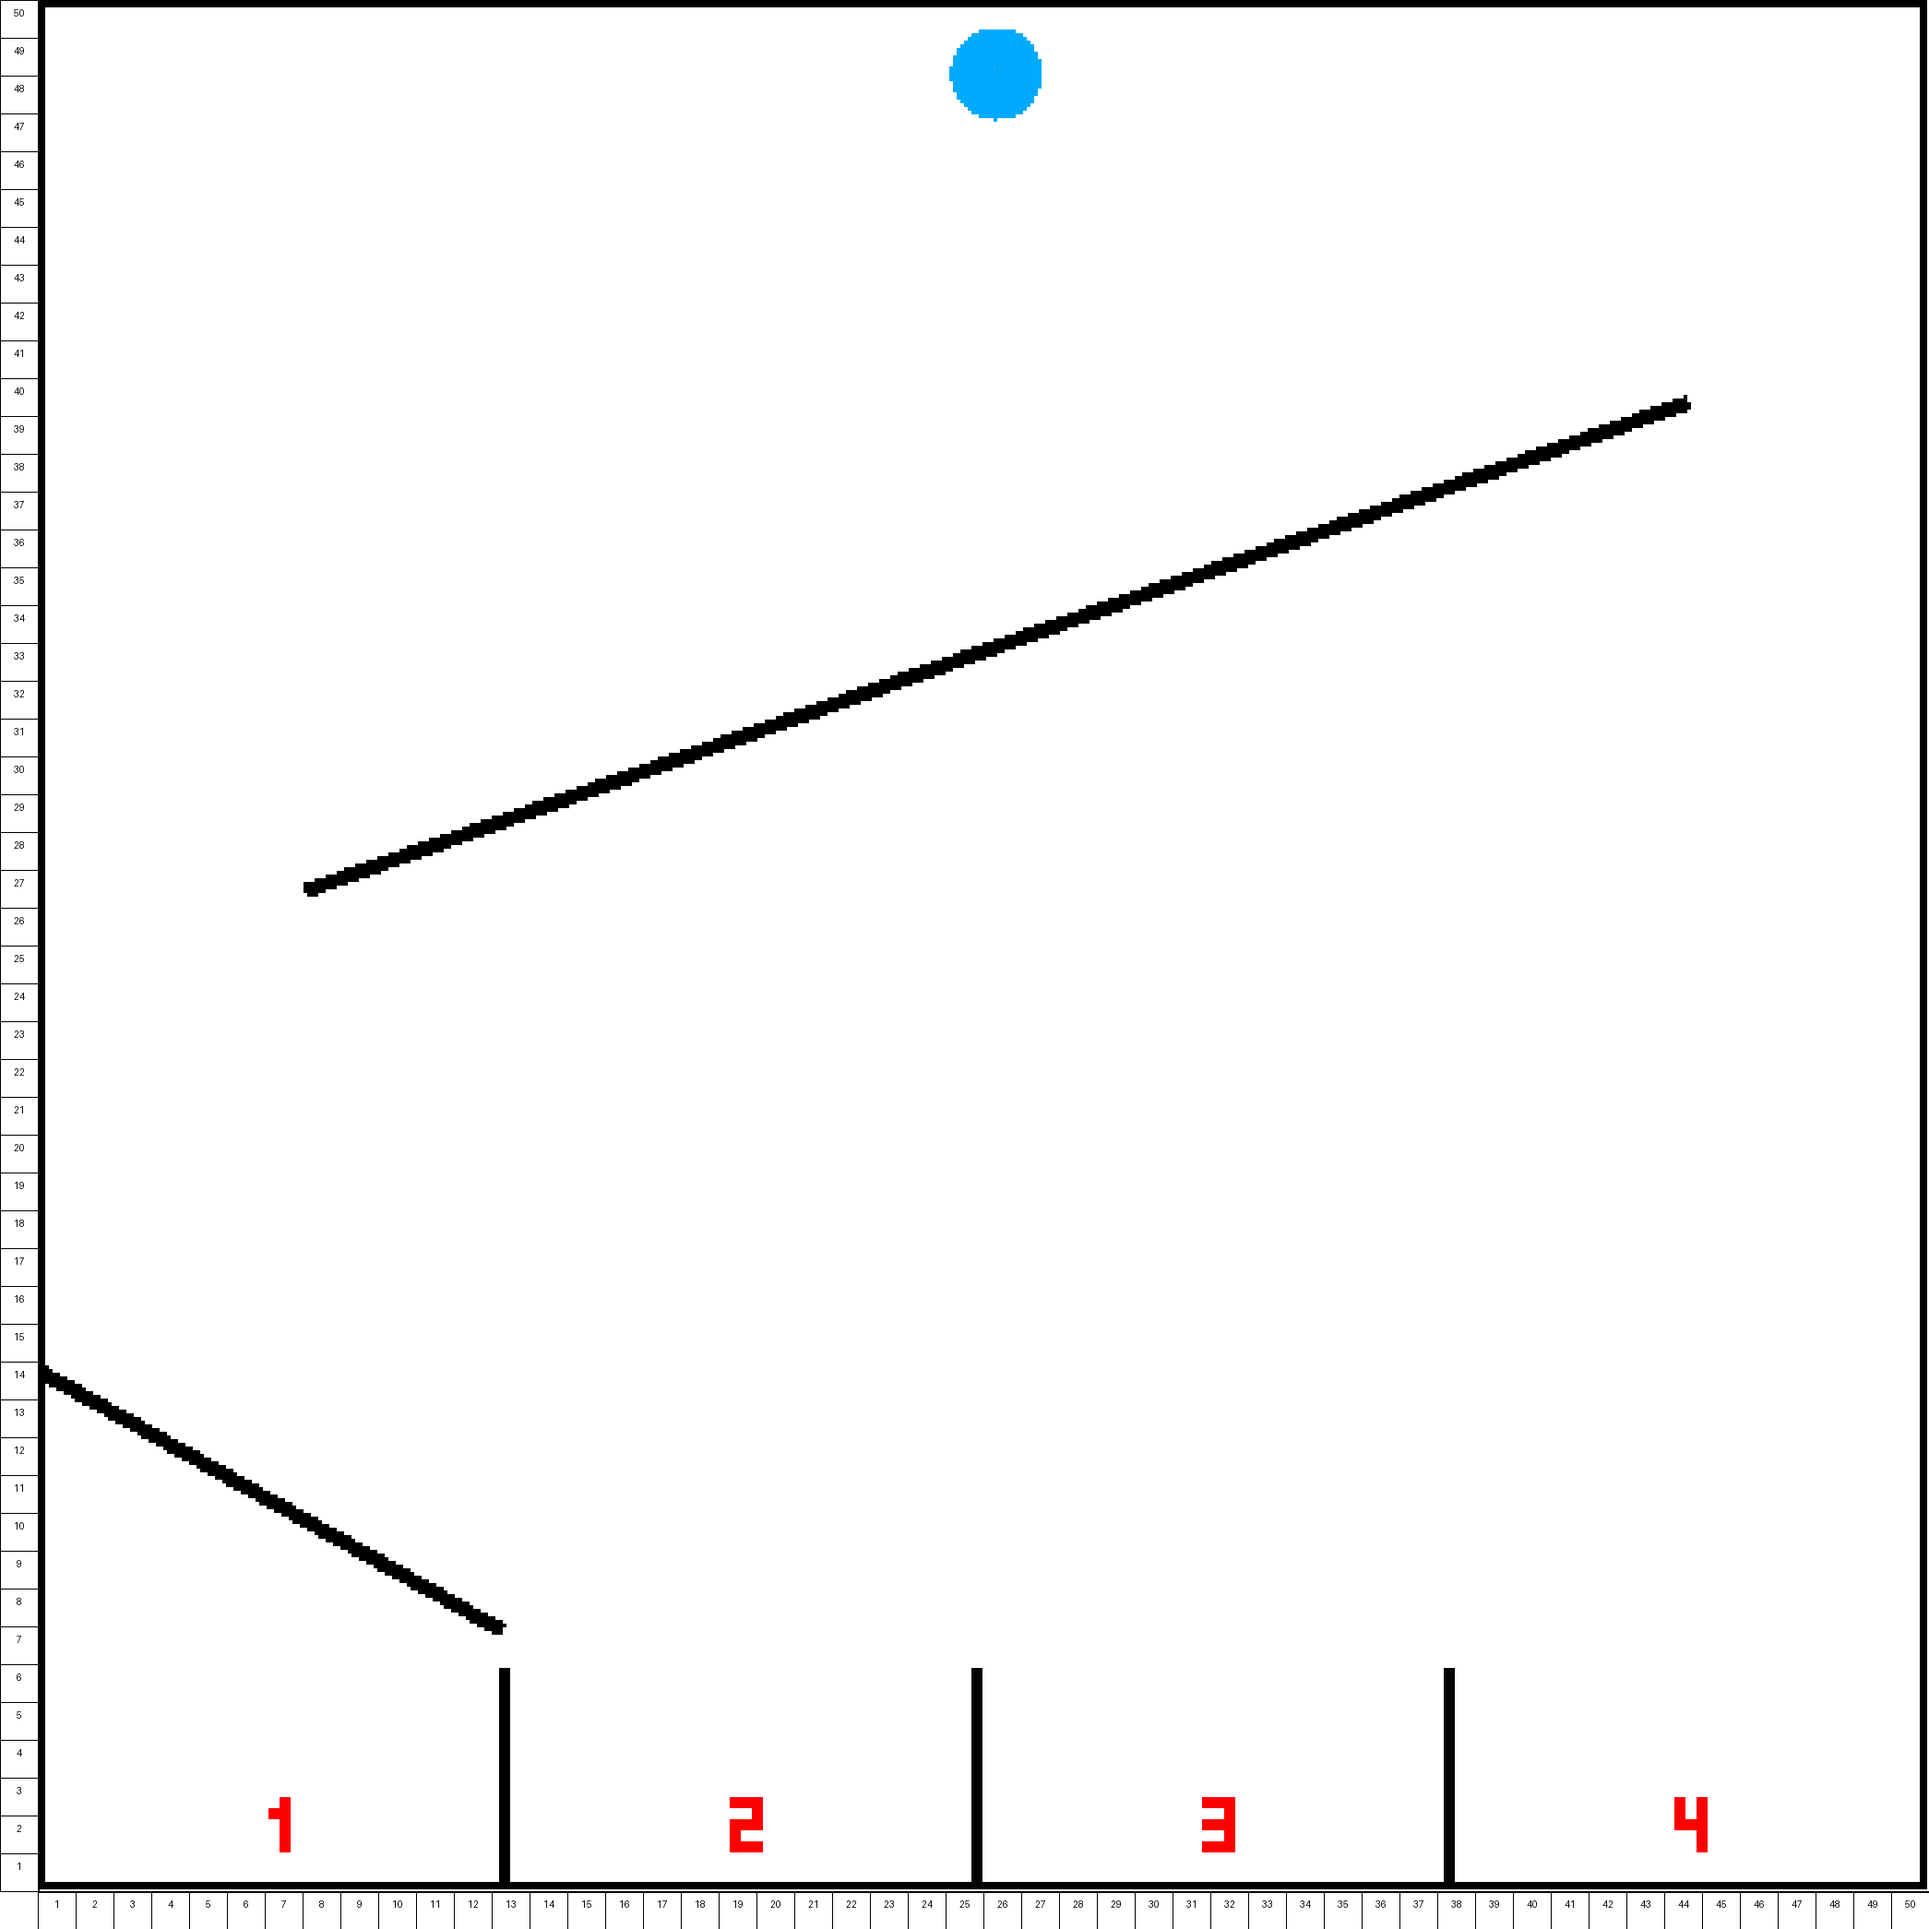
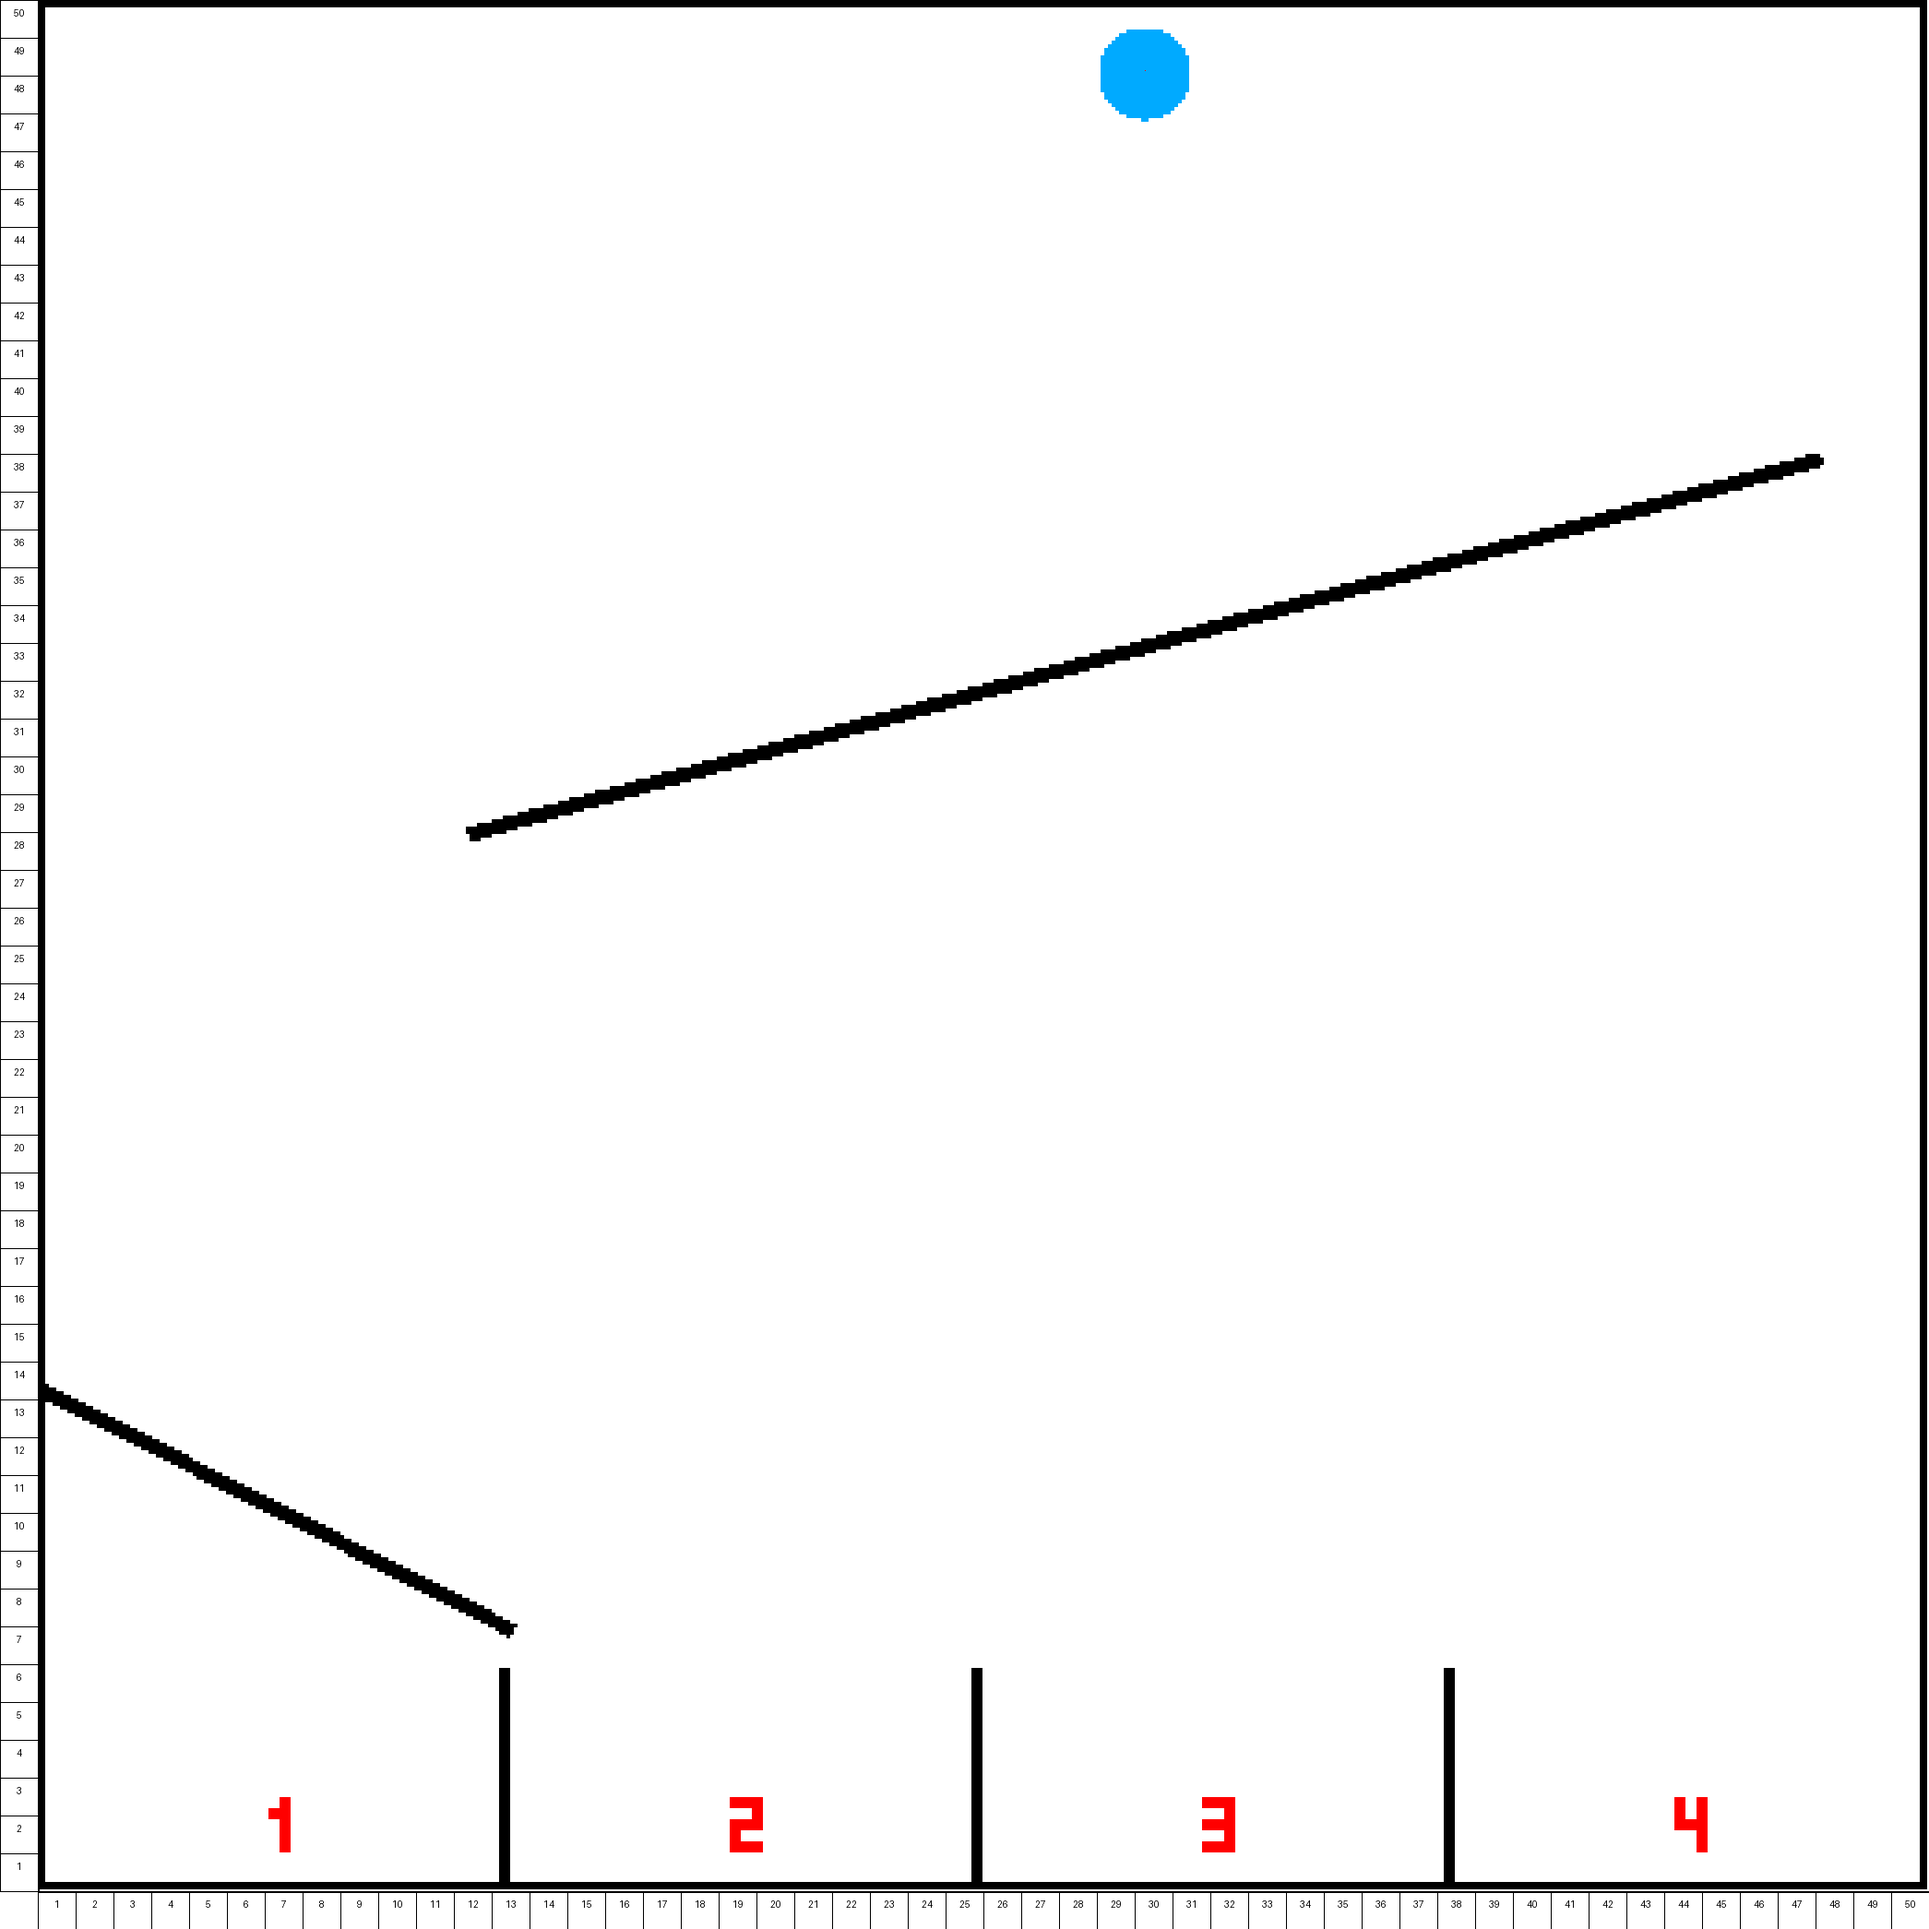
MSE addition

diff --git a/analysis/line_visualizations/compare_lines.py b/analysis/line_visualizations/compare_lines.py
@@ -198,6 +198,45 @@ def visualize_trajectory(points, title="Sampled Trajectory", save_path=None):
     
     plt.show()
 
+def compute_average_min_distance(svg_points, gt_points):
+    """
+    Compute average minimum distance and MSE from SVG points to GT points.
+
+    For each SVG point, finds the closest GT point and computes the distance.
+    Then calculates both the average and MSE (Mean Squared Error) of these minimum distances.
+
+    Parameters:
+    -----------
+    svg_points : np.ndarray
+        Array of shape (n, 2) containing SVG trajectory points
+    gt_points : np.ndarray
+        Array of shape (m, 2) containing ground truth trajectory points
+
+    Returns:
+    --------
+    tuple of (float, float)
+        (average_min_distance, mse_min_distance)
+    """
+    min_distances = []
+
+    for svg_pt in svg_points:
+        # Compute distances from this SVG point to all GT points
+        distances = np.linalg.norm(gt_points - svg_pt, axis=1)
+        # Find the minimum distance
+        min_dist = np.min(distances)
+        min_distances.append(min_dist)
+
+    # Convert to numpy array for easier computation
+    min_distances = np.array(min_distances)
+
+    # Average all minimum distances
+    avg_min_distance = np.mean(min_distances)
+
+    # MSE of minimum distances
+    mse_min_distance = np.mean(min_distances ** 2)
+
+    return avg_min_distance, mse_min_distance
+
 def visualize_comparison(svg_points, gt_points, title="SVG vs Ground Truth Comparison", save_path=None):
     """
     Visualize both SVG trajectory and ground truth trajectory for comparison
@@ -292,6 +331,14 @@ if __name__ == "__main__":
     print(f"  Min spacing: {np.min(gt_distances):.2f} pixels")
     print(f"  Max spacing: {np.max(gt_distances):.2f} pixels")
     print(f"  Coefficient of variation: {(np.std(gt_distances)/np.mean(gt_distances)*100):.1f}%")
+
+    # Compute trajectory similarity metrics
+    avg_min_dist, mse_min_dist = compute_average_min_distance(svg_points, gt_points)
+    print(f"\n{'='*60}")
+    print(f"Trajectory Similarity Metrics:")
+    print(f"  Average minimum distance (SVG to GT): {avg_min_dist:.2f} pixels")
+    print(f"  MSE minimum distance (SVG to GT): {mse_min_dist:.2f} pixels²")
+    print(f"{'='*60}")
 
     # Visualize comparison
     import os
